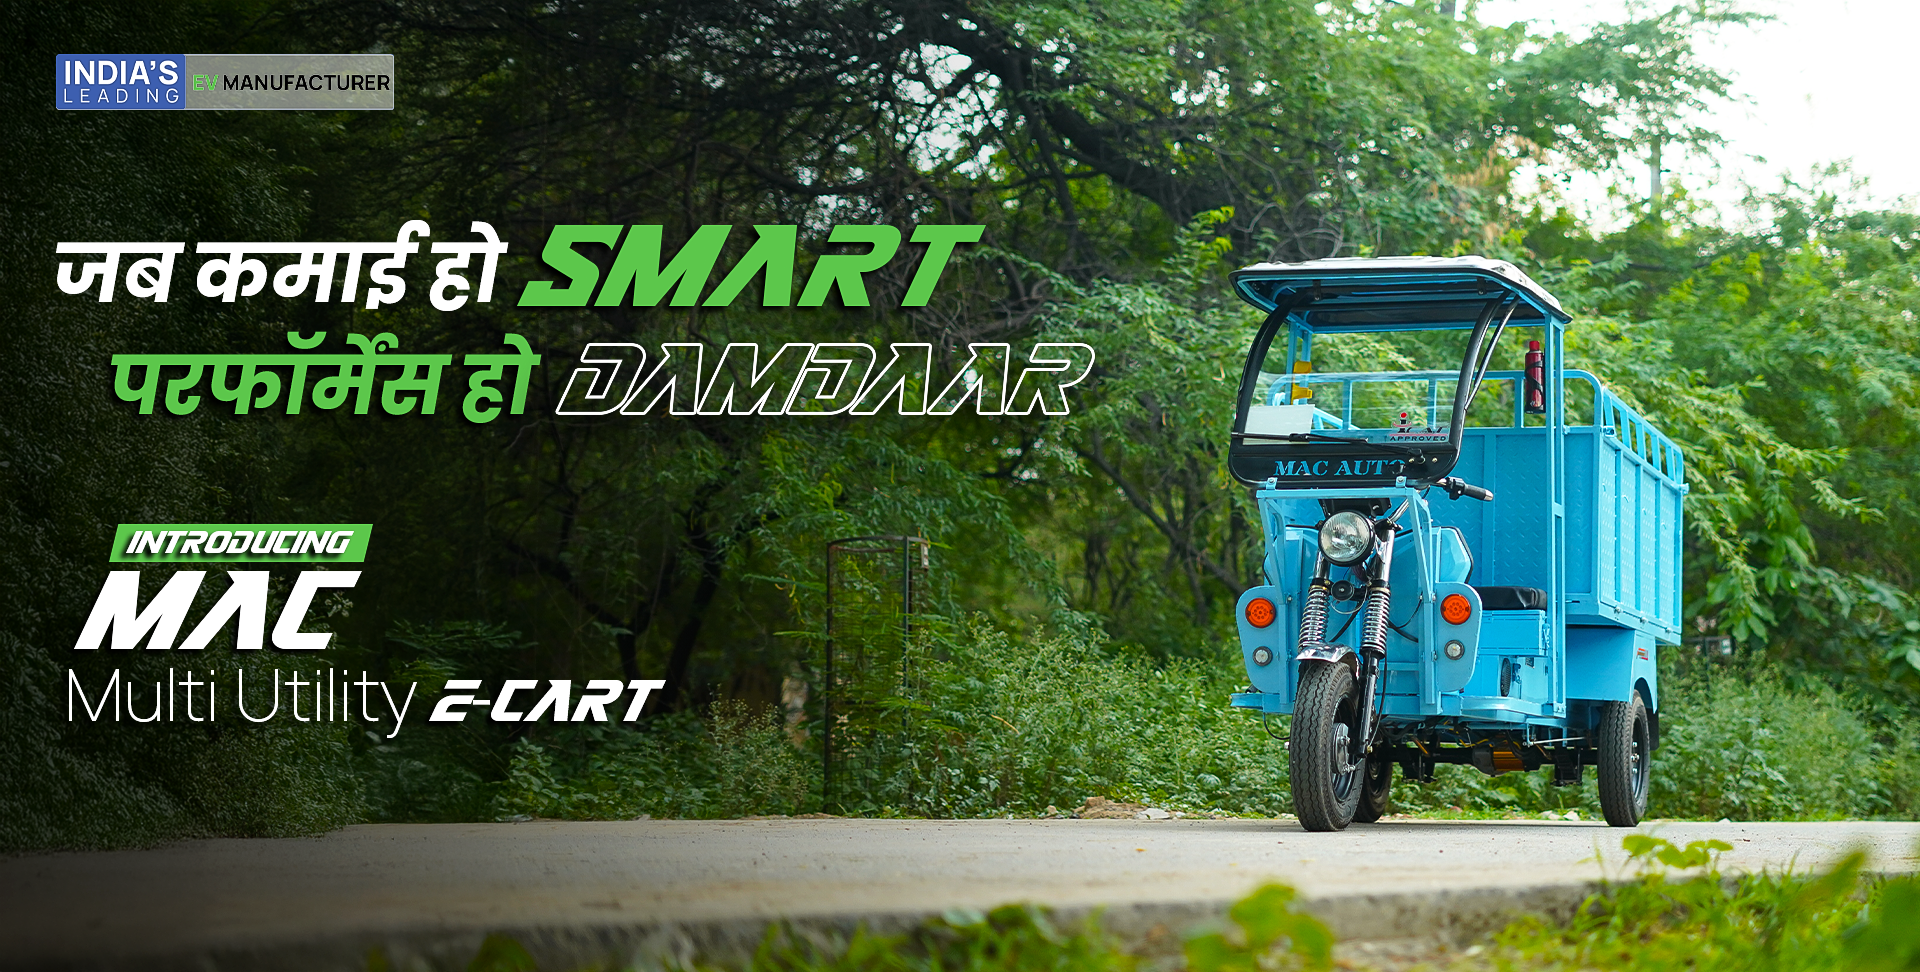
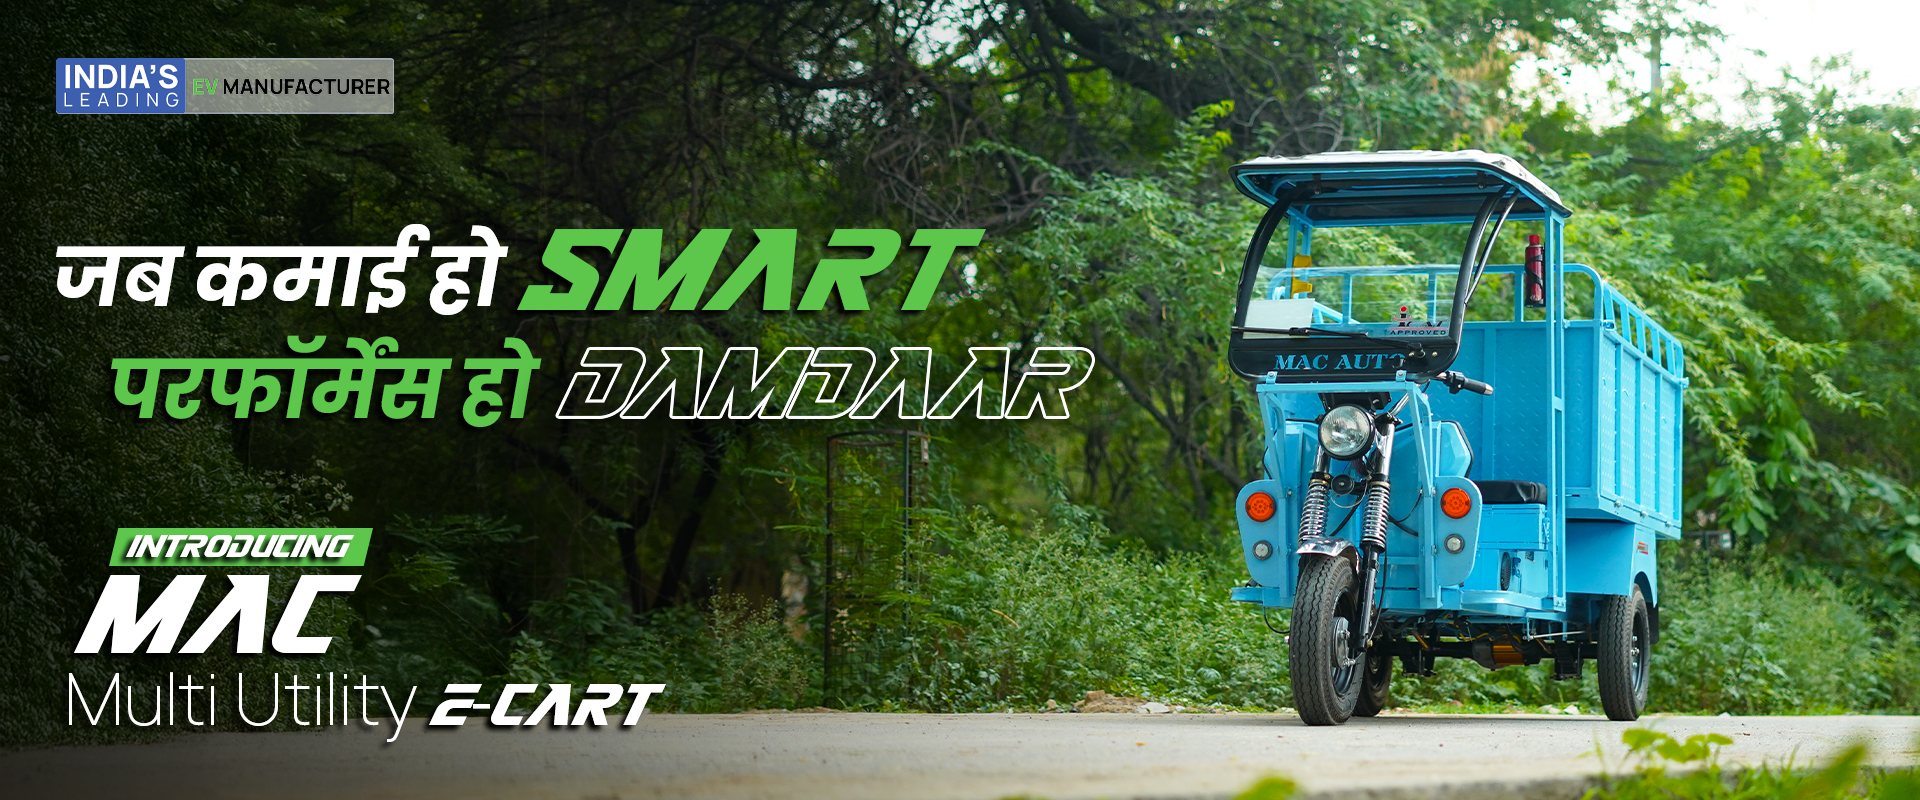
nav fixd

diff --git a/src/components/nav.js b/src/components/nav.js
@@ -88,7 +88,7 @@ export default function Navbar() {
 
   return (
     <>
-      <div className="nav-header bg-gray-50 py-2 border-b border-gray-100">
+      <div className="nav-header bg-[background: linear-gradient(to right, #3e5eab, #26a9E1);]">
         <Container maxWidth="xl">
           <div className="flex justify-end   items-center gap-10">
             <DropdownMenu>

diff --git a/src/app/home/hero.js b/src/app/home/hero.js
@@ -58,7 +58,7 @@ export default function ImageSwiper() {
                 alt=""
                 width="2000"
                 height="2000"
-                className="w-full max-h-[80vh]"
+                className="w-full"
               />
             </div>
           </SwiperSlide>

diff --git a/src/app/globals.css b/src/app/globals.css
@@ -44,12 +44,9 @@
 }
 
 :root {
-
-
-
   --font-manrope: 'Manrope', sans-serif;
   --font-speedbeast: 'SpeedBeast', sans-serif;
-
+  --color-main: #3e5eab;
 
   --color-primary: #26a9E1;
   --color-primary-light: #8BC248;
